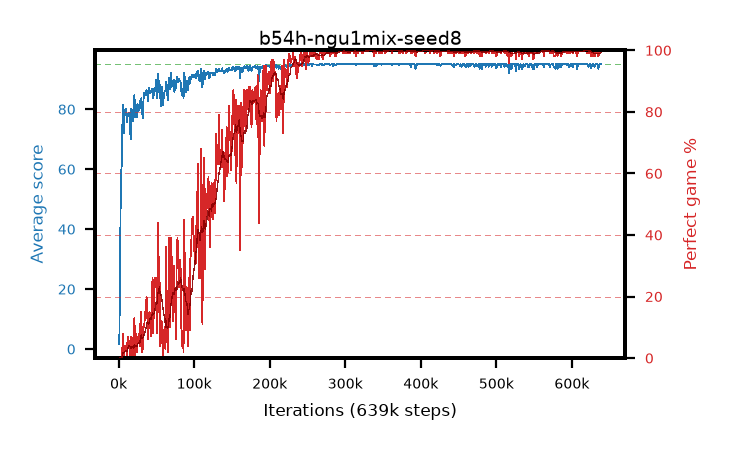
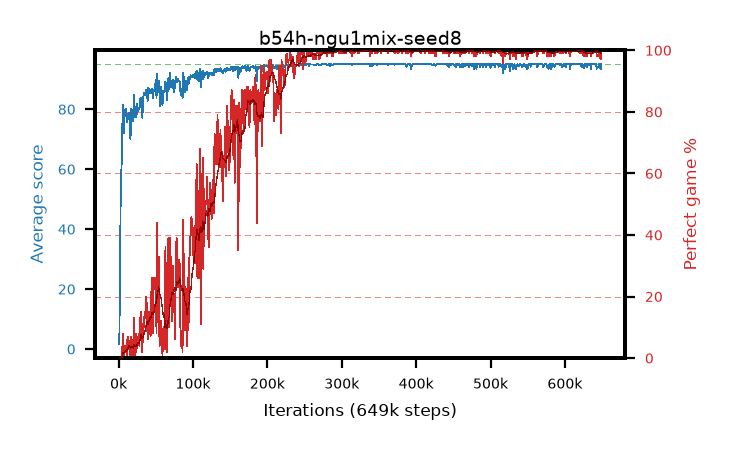
live pictures of 4 arm(s)

diff --git a/results/b54h-ngu1mix-seed8/b54h-ngu1mix-seed8.md b/results/b54h-ngu1mix-seed8/b54h-ngu1mix-seed8.md
@@ -1,6 +1,6 @@
 # b54h-ngu1mix-seed8
 
-step **639,000** · 639 evals · trailing **94.8** · peak **94.99** @332,000 · sef **73.9** · best30 **99.9** @424,000
+step **649,000** · 649 evals · trailing **94.61** · peak **94.99** @332,000 · sef **74.3** · best30 **99.9** @424,000
 
 ## Config
 
@@ -80,15 +80,15 @@ step **639,000** · 639 evals · trailing **94.8** · peak **94.99** @332,000 ·
 | 2000 | 29.66 | 15.65 | 10.0 | 60.0 | 24.462 | 0.0 | 0.4 |
 | 3000 | 55.64 | 28.98 | 19.0 | 90.0 | 50.395 | 0.0 | 0.4 |
 | ... | ... | ... | ... | ... | ... | ... | ... |
-| 628000 | 94.33 | 94.8 | 29.0 | 95.0 | 191.004 | 98.0 | 0.4 |
-| 629000 | 94.97 | 94.8 | 92.0 | 95.0 | 192.698 | 99.0 | 0.4 |
-| 630000 | 94.15 | 94.77 | 15.0 | 95.0 | 190.846 | 98.0 | 0.4 |
-| 631000 | 95.0 | 94.8 | 95.0 | 95.0 | 193.766 | 100.0 | 0.4 |
-| 632000 | 94.99 | 94.8 | 94.0 | 95.0 | 192.719 | 99.0 | 0.4 |
-| 633000 | 94.99 | 94.8 | 94.0 | 95.0 | 192.708 | 99.0 | 0.4 |
-| 634000 | 95.0 | 94.8 | 95.0 | 95.0 | 193.764 | 100.0 | 0.4 |
-| 635000 | 93.52 | 94.75 | 20.0 | 95.0 | 190.207 | 98.0 | 0.4 |
-| 636000 | 94.98 | 94.75 | 93.0 | 95.0 | 192.711 | 99.0 | 0.4 |
-| 637000 | 95.0 | 94.8 | 95.0 | 95.0 | 193.755 | 100.0 | 0.4 |
 | 638000 | 95.0 | 94.8 | 95.0 | 95.0 | 193.766 | 100.0 | 0.4 |
 | 639000 | 95.0 | 94.8 | 95.0 | 95.0 | 193.771 | 100.0 | 0.4 |
+| 640000 | 95.0 | 94.8 | 95.0 | 95.0 | 193.768 | 100.0 | 0.4 |
+| 641000 | 95.0 | 94.8 | 95.0 | 95.0 | 193.76 | 100.0 | 0.4 |
+| 642000 | 95.0 | 94.8 | 95.0 | 95.0 | 193.757 | 100.0 | 0.4 |
+| 643000 | 93.56 | 94.75 | 18.0 | 95.0 | 190.259 | 98.0 | 0.4 |
+| 644000 | 93.84 | 94.71 | 28.0 | 95.0 | 190.536 | 98.0 | 0.4 |
+| 645000 | 94.19 | 94.69 | 16.0 | 95.0 | 190.883 | 98.0 | 0.4 |
+| 646000 | 95.0 | 94.69 | 95.0 | 95.0 | 193.77 | 100.0 | 0.4 |
+| 647000 | 94.23 | 94.66 | 18.0 | 95.0 | 191.967 | 99.0 | 0.4 |
+| 648000 | 93.43 | 94.61 | 19.0 | 95.0 | 189.084 | 97.0 | 0.4 |
+| 649000 | 95.0 | 94.61 | 95.0 | 95.0 | 193.758 | 100.0 | 0.4 |
